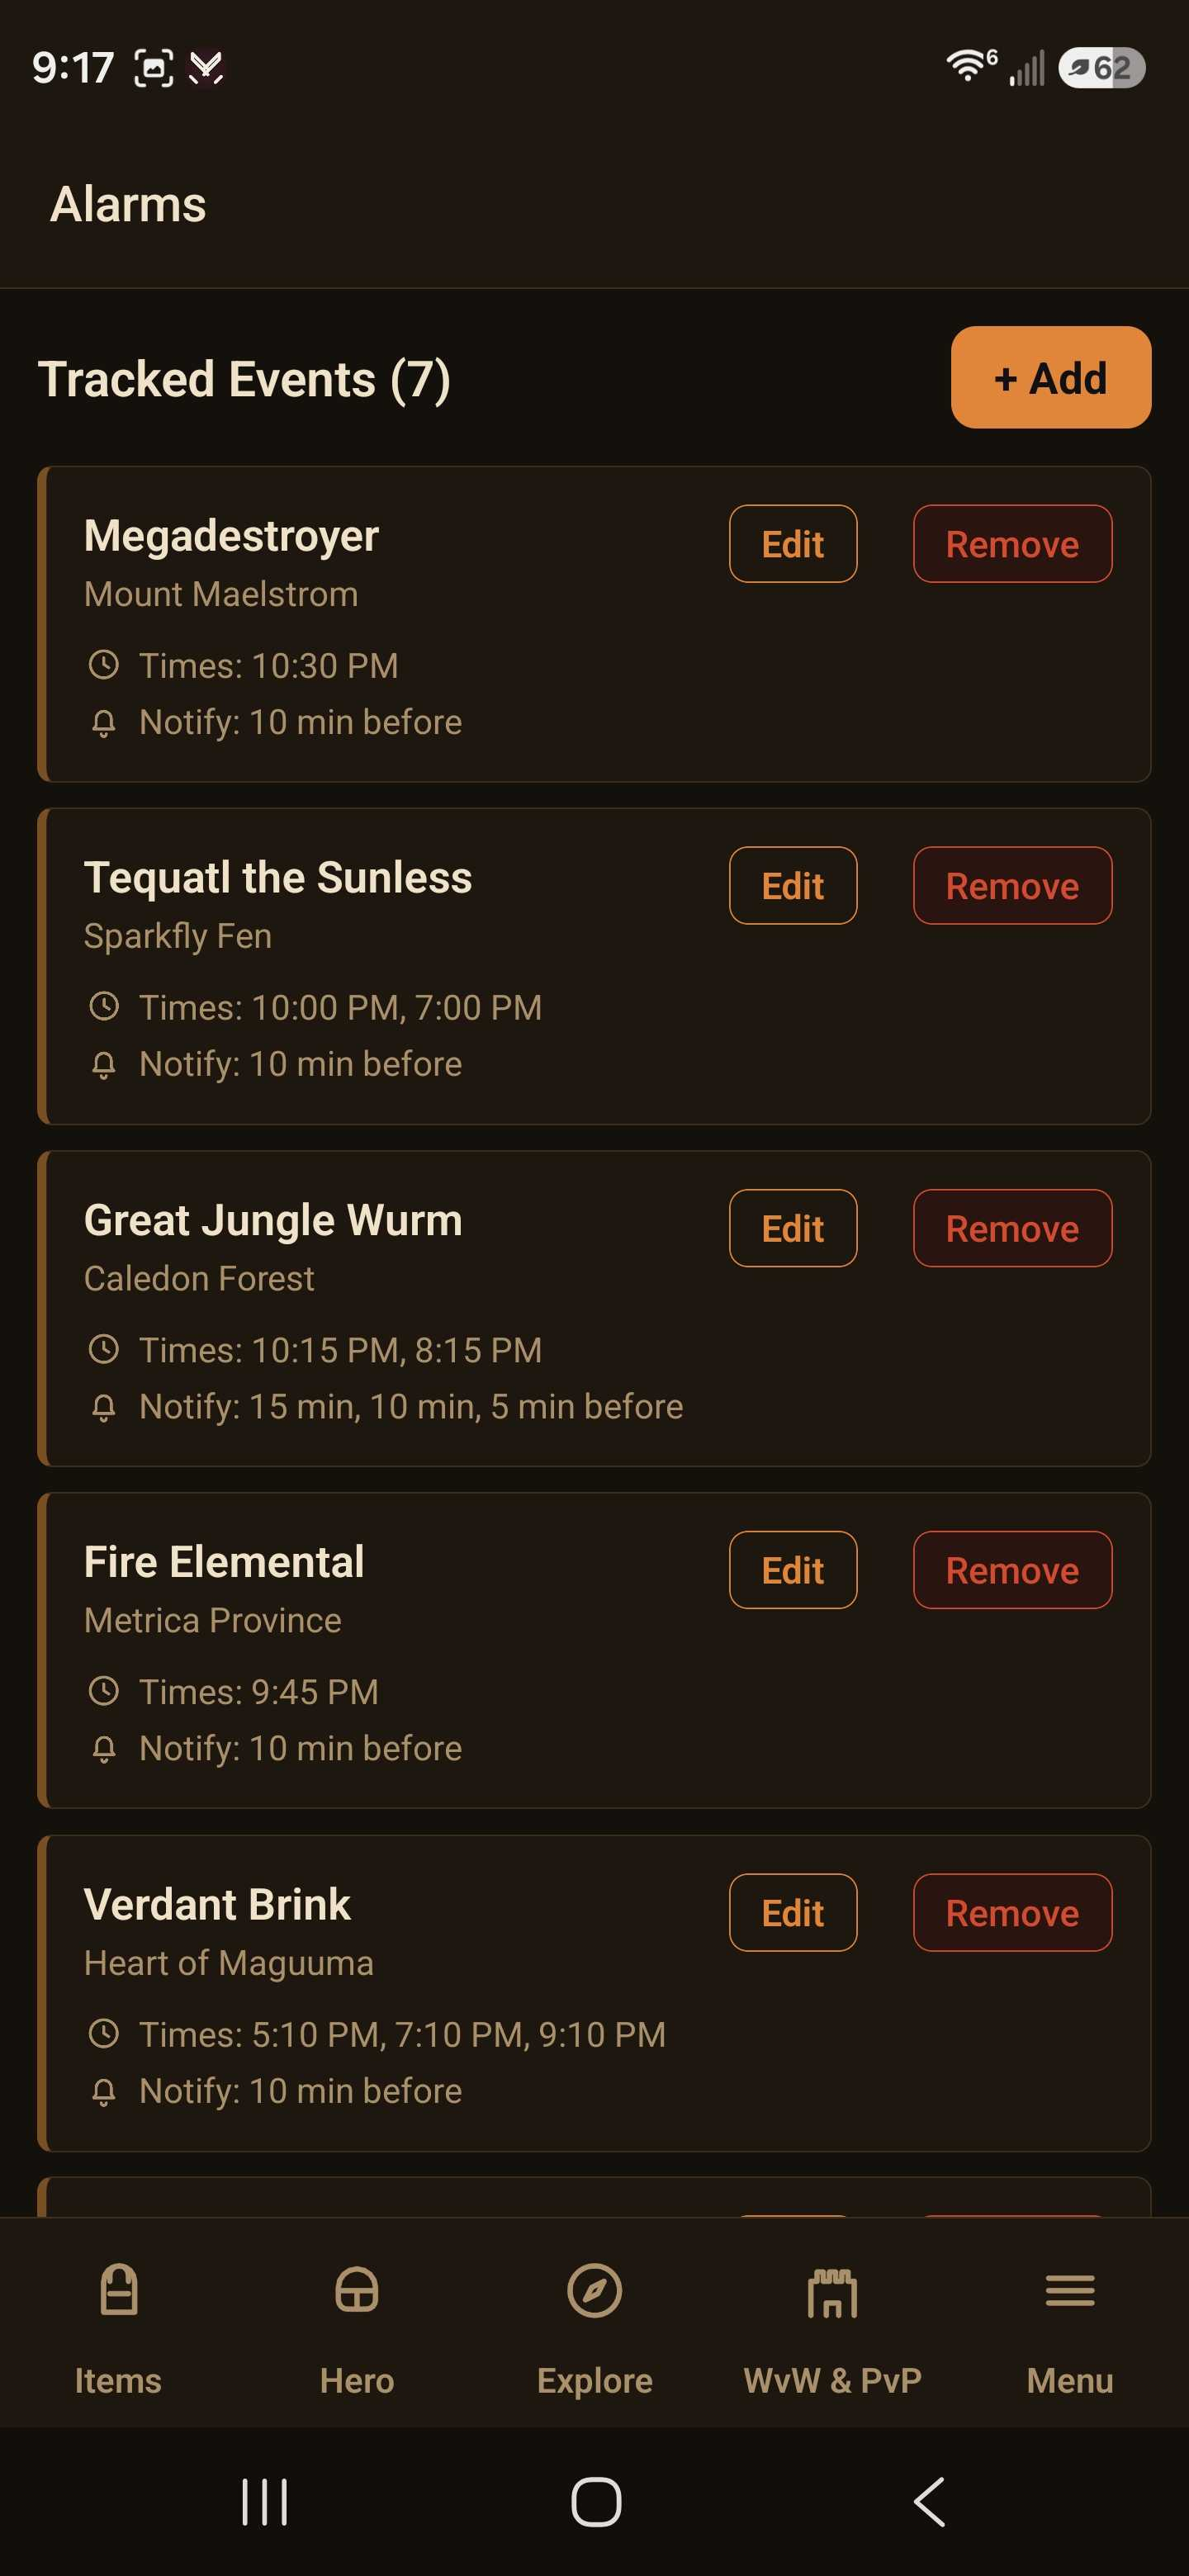
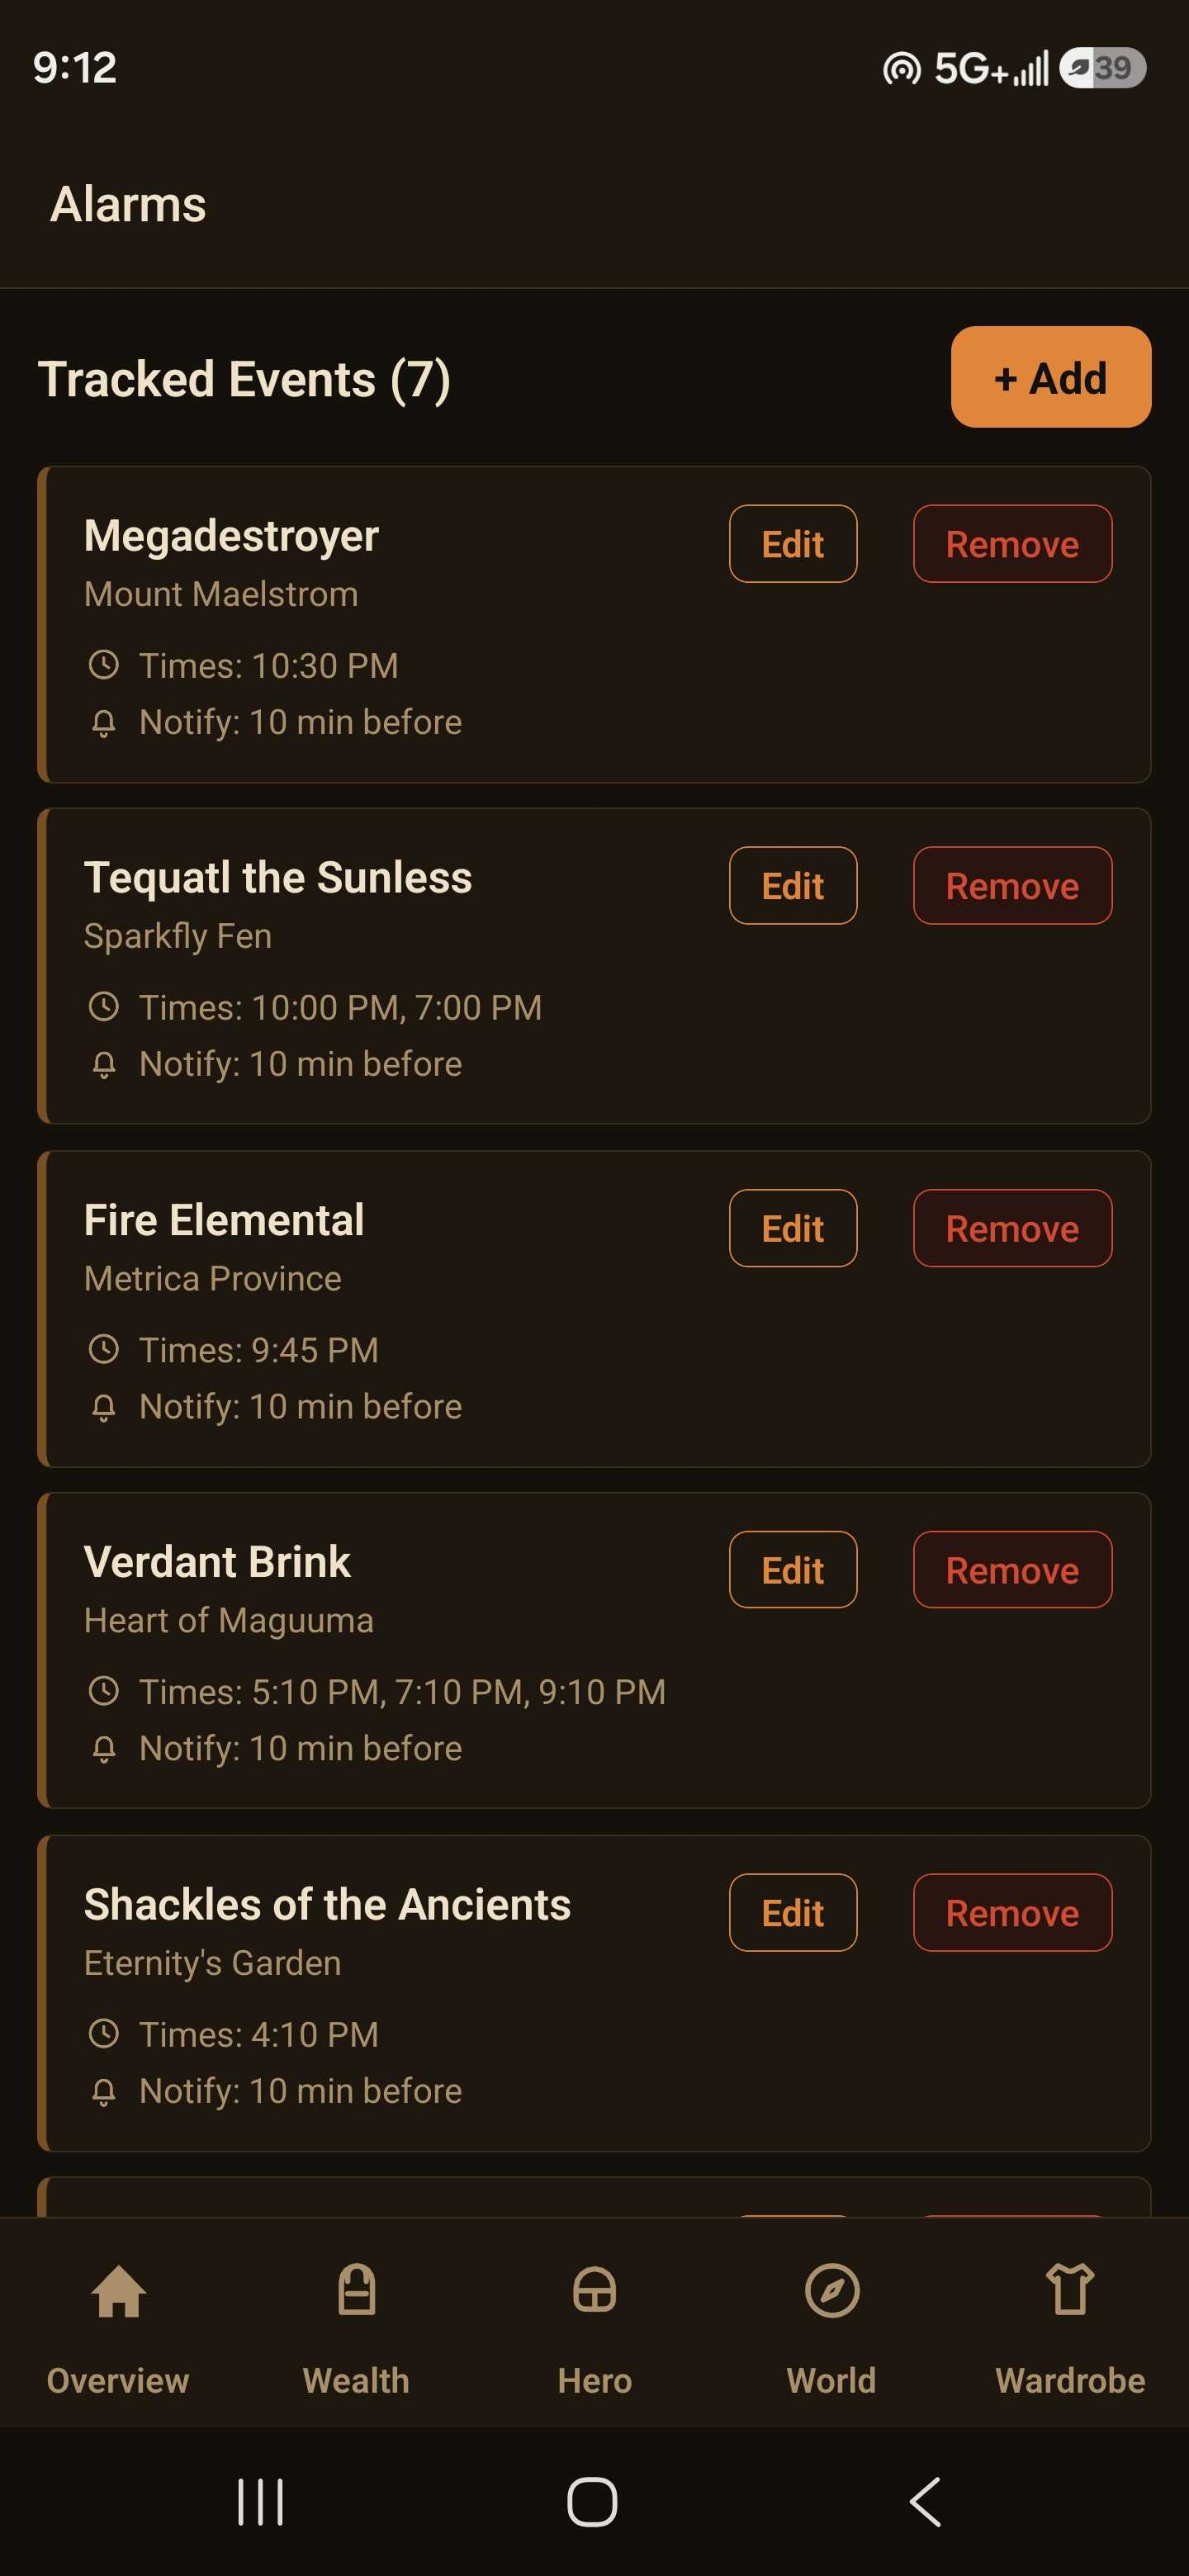
Update 3 homepage screenshots; auto-sync version from latest.json; restore truncated JS
- Replace crafting-1, crafting-2, notifications-3 screenshots
- Version in hero note and footer disclaimer now fetched from /latest.json on load (fallback v0.34.0), so it stays in sync each release
- Restore inline <script> tail that had been truncated mid-statement (footer commits 960214b..da78bcd), which was a syntax error disabling all feature modals and the lightbox

diff --git a/index.html b/index.html
@@ -774,7 +774,7 @@
         <a href="#" class="btn-primary">▶ Get it on Google Play</a>
         <a href="#features" class="link-secondary">See what's inside ↓</a>
       </div>
-      <p class="hero-note">Android · Requires a GW2 account · v0.31.0</p>
+      <p class="hero-note">Android · Requires a GW2 account · <span class="js-app-version">v0.34.0</span></p>
     </div>
     <div class="hero-visual">
       <div class="phone">
@@ -926,7 +926,7 @@
     <a href="privacy-policy.html">Privacy Policy</a>
     <a href="contact-support.html">Support</a>
   </div>
-  <p class="disclaimer">Tyrian Vault v0.31.0 · Tyrian Vault is an unofficial fan-made companion app and is not affiliated with, endorsed, sponsored, or approved by ArenaNet or NCSOFT.</p>
+  <p class="disclaimer">Tyrian Vault <span class="js-app-version">v0.34.0</span> · Tyrian Vault is an unofficial fan-made companion app and is not affiliated with, endorsed, sponsored, or approved by ArenaNet or NCSOFT.</p>
   <p class="disclaimer">Guild Wars Games &copy; ArenaNet LLC. All rights reserved. NCSOFT, ArenaNet, Guild Wars, Guild Wars 2, GW2, Heart of Thorns, Path of Fire, End of Dragons, Secrets of the Obscure, Janthir Wilds, Visions of Eternity, and all associated logos, designs, and composite marks are trademarks or registered trademarks of NCSOFT Corporation. All other trademarks are the property of their respective owners.</p>
   <p class="copyright">Website &copy; 2026 Medephist Studios</p>
 </footer>
@@ -1196,4 +1196,56 @@ document.getElementById('lightbox').addEventListener('touchstart', function(e) {
   lbTouchStartX = e.changedTouches[0].clientX;
   lbTouchStartY = e.changedTouches[0].clientY;
 }, { passive: true });
-document.getElementById('lightbox').ad
+document.getElementById('lightbox').addEventListener('touchend', function(e) {
+  if (!carouselImages.length) return;
+  var dx = lbTouchStartX - e.changedTouches[0].clientX;
+  var dy = lbTouchStartY - e.changedTouches[0].clientY;
+  if (Math.abs(dx) < Math.abs(dy) || Math.abs(dx) < 40) return;
+  if (dx > 0) {
+    setCarouselSlide((carouselIndex + 1) % carouselImages.length, false);
+  } else {
+    setCarouselSlide((carouselIndex - 1 + carouselImages.length) % carouselImages.length, false);
+  }
+}, { passive: true });
+document.addEventListener('keydown', function(e) {
+  var lb = document.getElementById('lightbox');
+  if (!lb.classList.contains('open')) return;
+  if (e.key === 'Escape') { closeLightbox(); return; }
+  if (e.key === 'ArrowRight') setCarouselSlide((carouselIndex + 1) % carouselImages.length, false);
+  if (e.key === 'ArrowLeft') setCarouselSlide((carouselIndex - 1 + carouselImages.length) % carouselImages.length, false);
+});
+
+// Touch swipe support for carousel
+var swipeStartX = 0;
+var swipeStartY = 0;
+document.getElementById('modalCarousel').addEventListener('touchstart', function(e) {
+  swipeStartX = e.changedTouches[0].clientX;
+  swipeStartY = e.changedTouches[0].clientY;
+}, { passive: true });
+document.getElementById('modalCarousel').addEventListener('touchend', function(e) {
+  if (!carouselImages.length) return;
+  var dx = swipeStartX - e.changedTouches[0].clientX;
+  var dy = swipeStartY - e.changedTouches[0].clientY;
+  if (Math.abs(dx) < Math.abs(dy) || Math.abs(dx) < 40) return;
+  if (dx > 0) {
+    setCarouselSlide((carouselIndex + 1) % carouselImages.length, true);
+  } else {
+    setCarouselSlide((carouselIndex - 1 + carouselImages.length) % carouselImages.length, true);
+  }
+}, { passive: true });
+
+// Keep the displayed app version in sync with the release manifest the app also reads.
+(function() {
+  fetch('/latest.json?_=' + Date.now(), { headers: { Accept: 'application/json' } })
+    .then(function(r) { return r.ok ? r.json() : null; })
+    .then(function(d) {
+      if (!d || !d.version) return;
+      var v = 'v' + String(d.version).trim().replace(/^v/i, '');
+      document.querySelectorAll('.js-app-version').forEach(function(el) { el.textContent = v; });
+    })
+    .catch(function() {});
+})();
+</script>
+
+</body>
+</html>